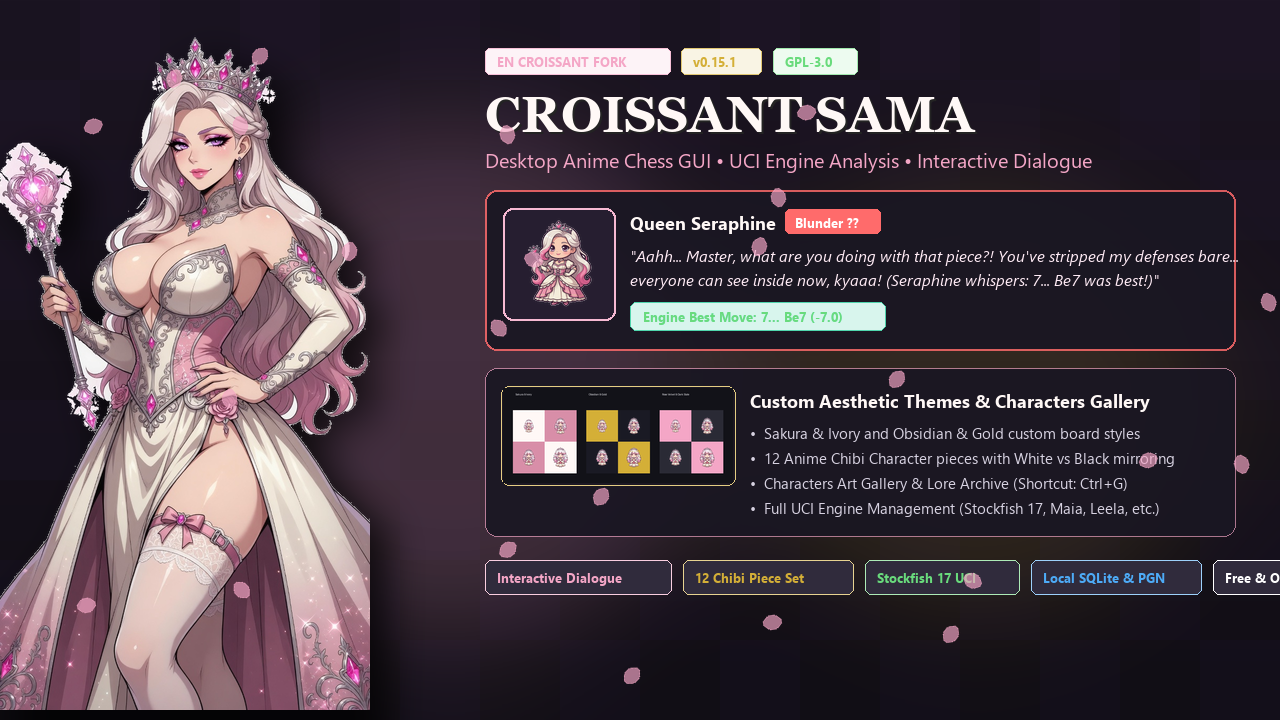
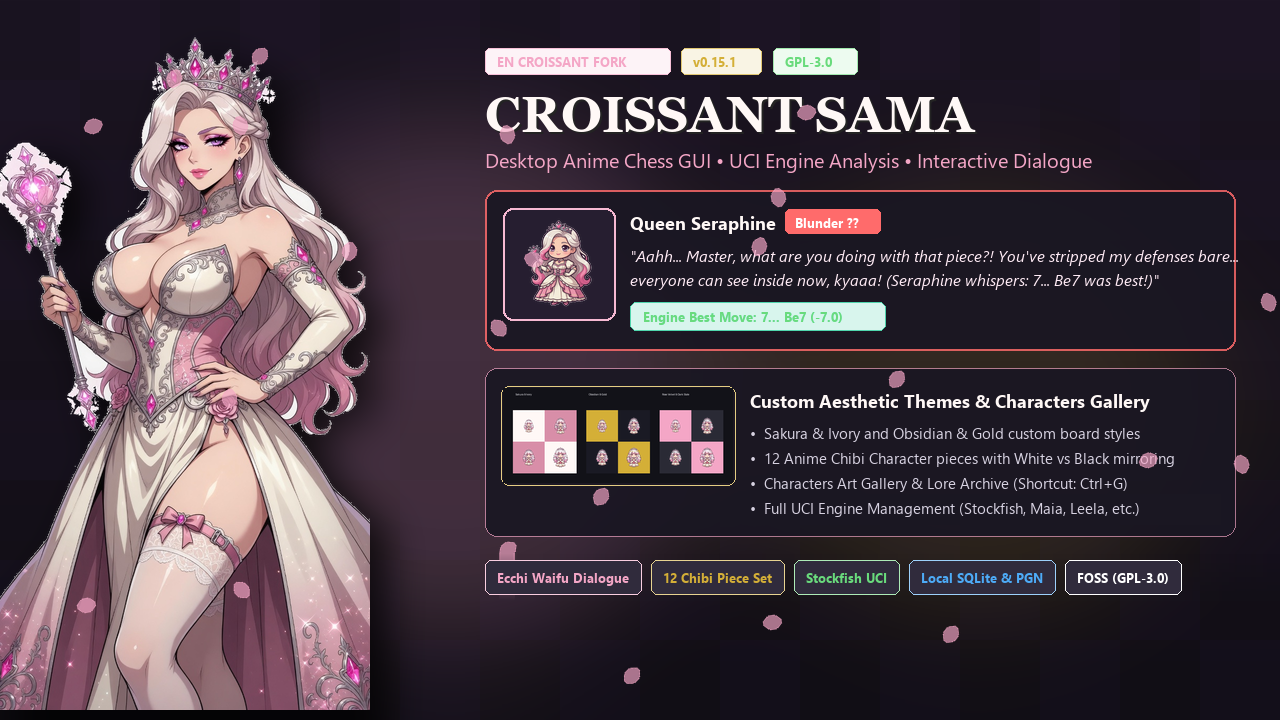
fix(branding): correct Stockfish naming and fix thumbnail pill clipping

Changed region(s): [[0.375, 0.7639, 1.0, 0.825], [0.8125, 0.7028, 0.9062, 0.7333]]

diff --git a/README.md b/README.md
@@ -4,7 +4,7 @@
   <img width="128" height="128" src="./src-tauri/icons/icon.png" alt="Croissant_Sama Logo" />
   <h1 align="center">Croissant_Sama</h1>
   <p align="center">
-    <strong>Desktop Anime Chess GUI • Stockfish 17 Engine Analysis • Waifu Dialogue Commentary • 12 Sovereigns Art Codex</strong>
+    <strong>Desktop Anime Chess GUI • Stockfish Engine Analysis • Waifu Dialogue Commentary • 12 Sovereigns Art Codex</strong>
     <br />
     An Anime-themed Fork of <a href="https://github.com/franciscoBSalgueiro/en-croissant">En Croissant</a>
     <br />
@@ -66,7 +66,7 @@ The entire chessboard has been reimagined as two opposing noble houses featuring
 
 ### ⚡ Professional Chess Toolkit (En Croissant Engine)
 
-- **UCI Engine Management**: Multi-PV evaluation powered by Stockfish 17, Maia neural networks, and custom engines.
+- **UCI Engine Management**: Multi-PV evaluation powered by Stockfish, Maia neural networks, and custom engines.
 - **Game Review & Graphs**: Full-game precision graphs, centipawn loss analysis, and blunder detection.
 - **Chess.com & Lichess Sync**: One-click PGN import, tournament database exploration, and user game downloads.
 - **Repertoire Trainer**: Spaced-repetition opening repertoire training with due-card notifications.
